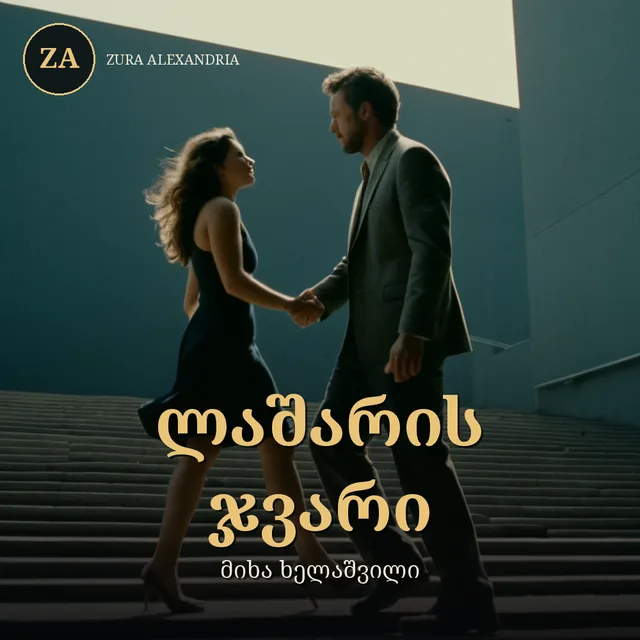
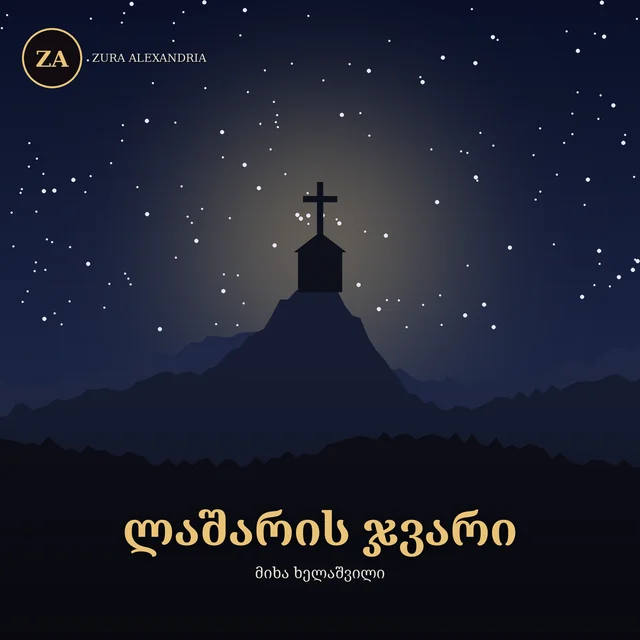
covers: replace mismatched covers for ბაყაყი, ლაშარის ჯვარი, ლეკის ქალი
Claude-Session: https://claude.ai/code/session_01YZSyMH2BovVjLWTMqsAWij

diff --git a/HANDOFF.md b/HANDOFF.md
@@ -214,3 +214,7 @@ PC3: 2026-11-27. Rechecked the KinoStudio narrator models. The first Piper sampl
 Pulled 5020597 and completed only the first laptop Codex task. Evidence commit c280440 records three visually reviewed 3000×3000 RGB JPEGs and the numbered _choose_cover.jpg in D:/Prog/MusicToVideo/Library/_agent/distrokid/covers/პირველი-თოვლი/. Used the existing UTF-8-fixed local worker, installed Flux Klein 9B and CPU title/logo compositor; no application changes. Candidate 3 is closest to the requested back-view composition. Generation/composition times excluding idle gates: 46.922 / 37.094 / 36.625 seconds.
 
 Every render passed the 60-second idle gate. The initial sandboxed renderer remained on CPU with an empty log; stopped only that renderer, retained attempt evidence, and completed the same worker through approved unrestricted execution. All JPEGs fully decode; local validation.json records dimensions/hashes and unchanged release JSON. Cover remains empty, worker exited successfully, lock cleared, GPU 0%/0 MiB. No upload/publication, production writes, public portfolio/covers, OneDrive checkout, Maestro code/config or model/package changes. Repository changes are documentation only, so pnpm code-change gates were not applicable. Commits use [skip ci] to avoid website deployment. Next: owner chooses a cover; Claude handles the release after explicit approval. No second task started.
+
+## Claude: urgent cover fixes on the site (2026-11-27)
+
+The owner reported unsuitable covers. Replaced three `public/covers/` images that contradicted their songs: `the-frog` (children's song „ბაყაყი“ showed a romantic couple → illustrated frog on a pond), `lashari-cross` („ლაშარის ჯვარი“ showed a dancing couple → night mountain with the shrine and cross) and `the-dagestani-girl` („ლეკის ქალი“ showed a man → frame from the song's own YouTube clip E_CMh1ch2hs). Same layout as the other covers (ZA badge, gold Georgian title, poet). Still weak, not yet changed: `first-snow` (rain, no snow — replace with the owner's chosen DistroKid cover) and `why-are-you-crying-mother` (lone man in rain for a poem about a mother).
